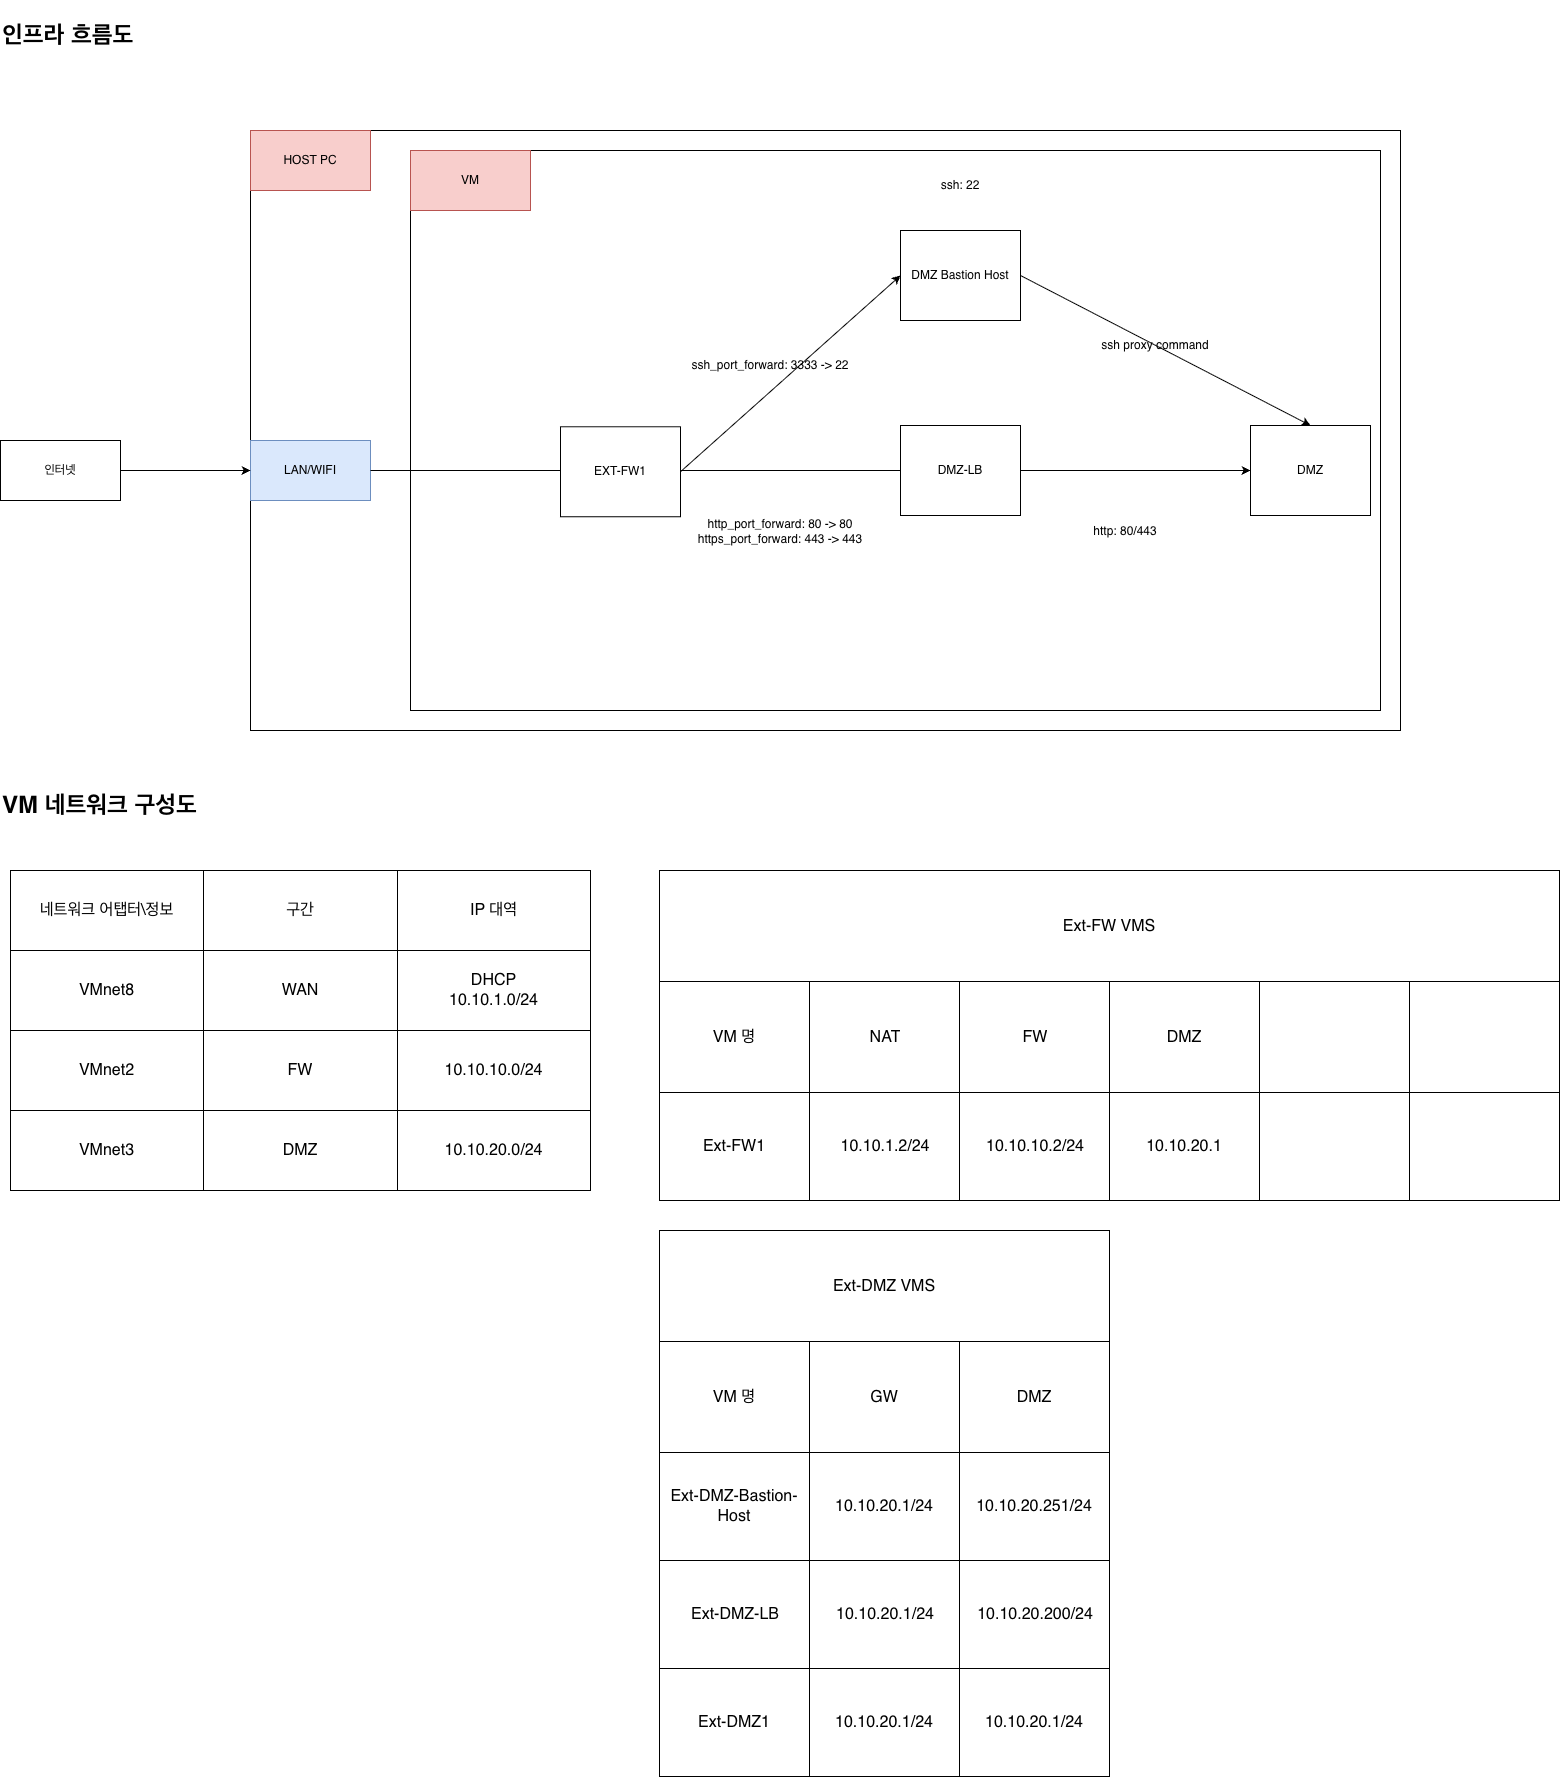
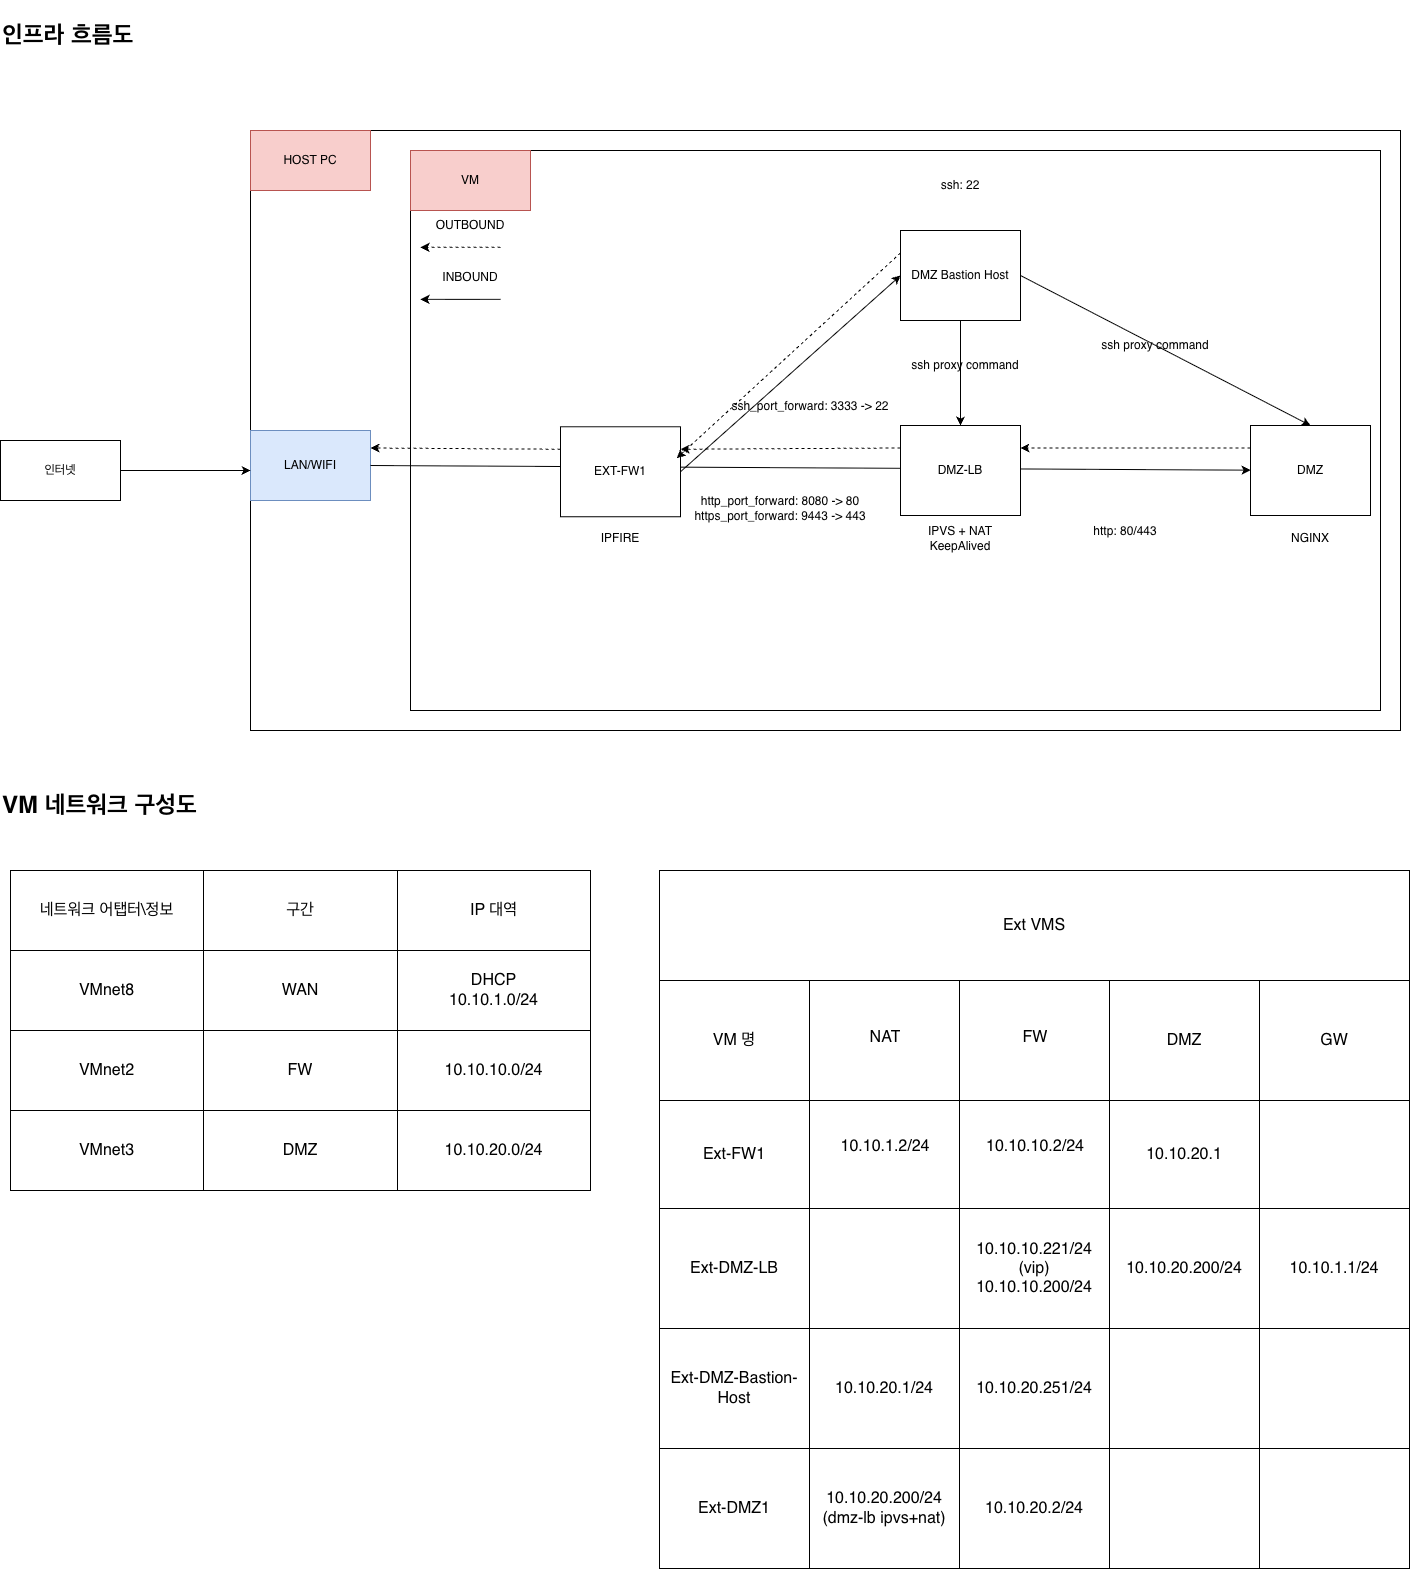
infra-4: 전체 인프라 구성도 및 작업 내역 갱신

diff --git a/fw-dmz-fw-sz-study/README.md b/fw-dmz-fw-sz-study/README.md
@@ -9,13 +9,42 @@ x`# Onpromise-Infrastructure-Study
 - VM 구현 application: 
   - VM Fusion: PORT FORWARDING, host only 설정 이슈 존재
   - UTM: NAT , host only
-  - Virtual BOX: ?
+  - Virtual BOX: oracle vm
 - 방화벽 application: IPFire
 - OS : rhel10 CE
-- DMZ-LB: IPVS
+- DMZ-LB: IPVS + keepavlied
 - DMZ/SZ Web-Server: Nginx
-## VM 네트워크 정보
-- NAT DHCP
-- VIP 10.10.10.250/24
-- EXT-FW 10.10.10.0/24
-- DMZ 10.10.20.0/24
+
+# 네트워크 아키텍처 설계 및 구성
+- FW / VIP / LB / Backend 기반 3-Tier DMZ 네트워크 구성
+- 구간별 네트워크 역할 분리 (WAN / DMZ / Backend / Host-only)
+- multi-subnet 기반 라우팅 및 트래픽 흐름 설계
+
+# Load Balancing / High Availability 구성
+- IPVS 기반 L4 Load Balancer 구성 및 NAT 모드 적용
+- VIP 기반 서비스 엔드포인트 구성 및 트래픽 분산 구조 설계
+- Keepalived 기반 DMZ-LB 이중화 (Active/Backup) 구성
+- VIP failover 구조 및 가용성 설계 적용
+
+# 방화벽 및 네트워크 보안 구성
+- IPFire 기반 RED / ORANGE / GREEN 영역 분리 설계
+- NAT 및 내부망 정책 기반 트래픽 제어 구성
+- DMZ 내부 / 외부 트래픽 정책 분리 및 접근 제어 설계
+
+# 네트워크 문제 분석 및 트러블슈팅
+- stateful connection tracking 기반 장애 분석 (conntrack)
+- asymmetric routing 문제 직접 분석 및 해결
+- VIP-LB-Backend 간 TCP 세션 흐름 분석
+- NAT 환경에서의 return path 불일치 문제 해결
+
+# 패킷 및 라우팅 레벨 디버깅
+- tcpdump 기반 패킷 흐름 분석
+- ip route / arp table 기반 L2/L3 경로 검증
+- 인터페이스별 트래픽 흐름 검증 및 장애 지점 식별
+
+# 핵심 기술 이해 영역
+- L4 Load Balancing (IPVS NAT)
+- Stateful firewall 동작 원리 (conntrack)
+- Symmetric / asymmetric routing 구조 이해
+- VIP 기반 서비스 아키텍처 설계
+- DMZ 기반 multi-tier network segmentation
